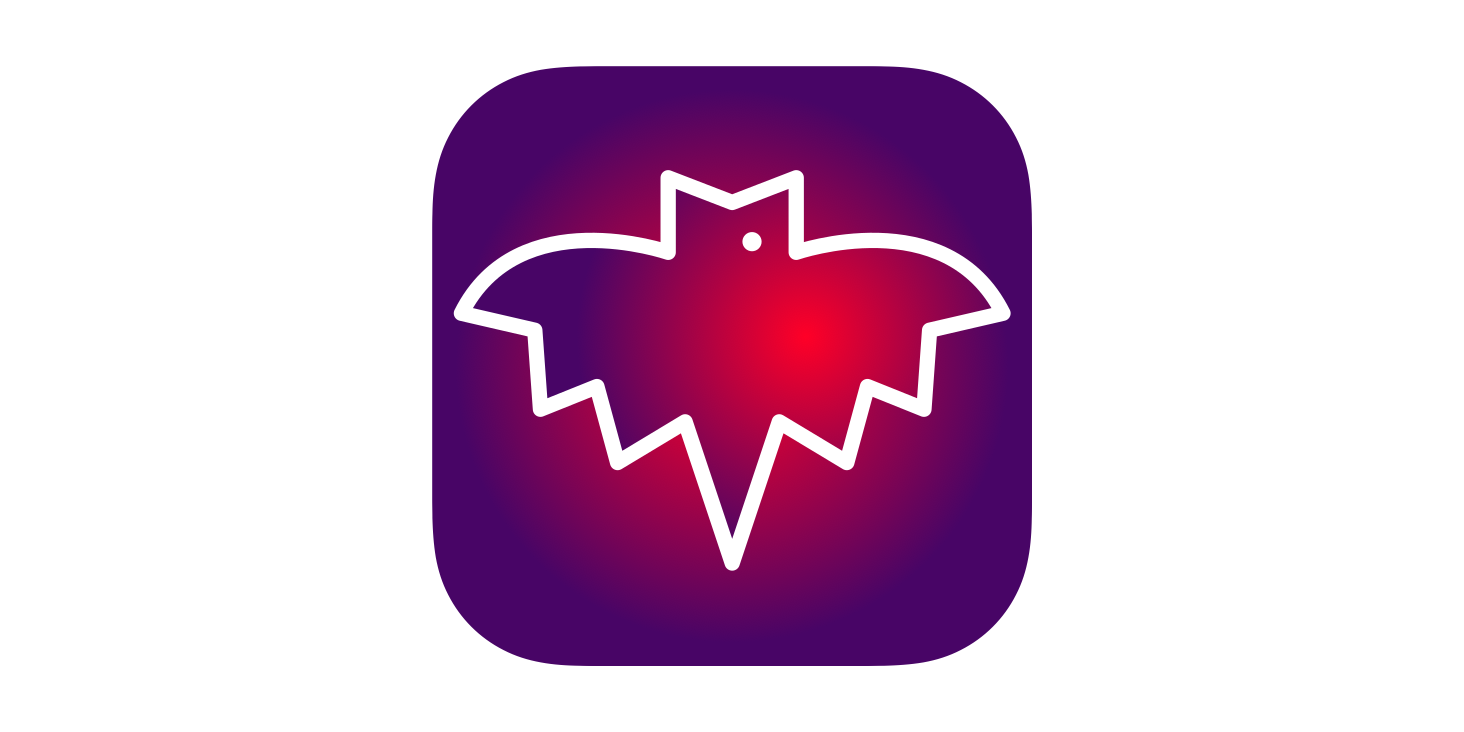
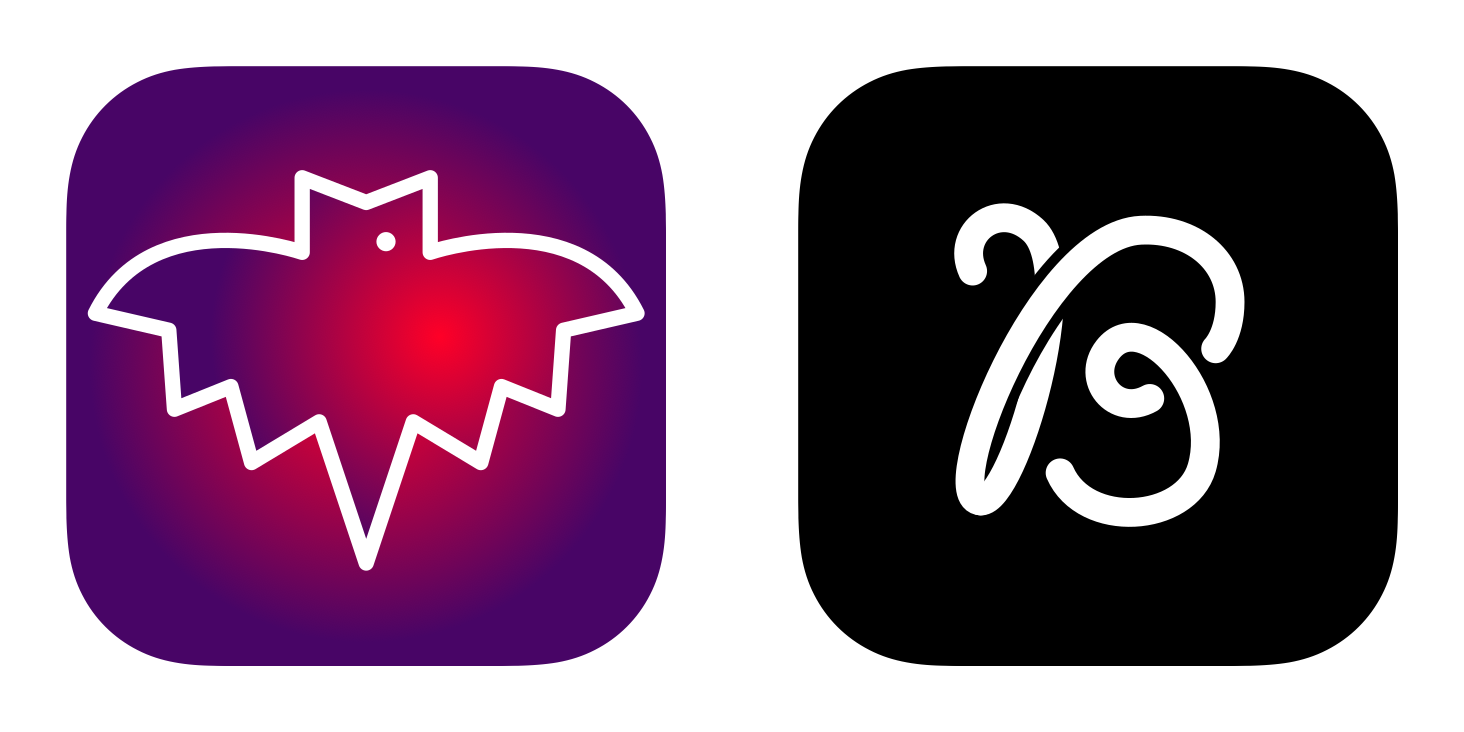
Update 2024-03-07 10:26:13

diff --git a/ja/batty/index.html b/ja/batty/index.html
@@ -99,7 +99,7 @@
 <p>一時間ほどで制作した。</p>
 <p>まず「コウモリ イラスト」でGoogle画像検索をしてみた所、羽の膜を曲線に描いている物が多かった。</p>
 <p>なので試しに直線にしてみたら意外と良い感じな気がしたので採用し、両目が開いているとつまらない気がしたので片目を閉じさせてみたら何だか良い感じになったので採用した。</p>
-<p>Battyは国外にも出す予定だが、最近の海外のSNSアプリは黒か紫色が多い印象がある（詳しく調べてはいない）ので、コウモリの連想から紫を基調にした。</p>
+<p>Battyは海外にも出す予定だが、最近の海外のSNSアプリは黒か紫色が多い印象がある（詳しく調べてはいない）ので、コウモリの連想から紫を基調にした。</p>
 <p>最後に「グラデーションを重ねると何か良い感じになる」というデザインの裏技を使う事に決めた。<br>
 背景にグラデーションを施し、コウモリにも同じ色のグラデーションをかける。<br>
 この時コウモリの方は開いている目の方向にずらすと、何故なのかは分からないが、意味ありげな雰囲気が出て良い感じになる。</p>
@@ -111,6 +111,20 @@
 </div>
 <div class="article-body">
 <p>左はクリオネっぽい。</p>
+<h1 id="アイコンの作り直し">アイコンの作り直し</h1>
+</div>
+<div class="figure">
+	<img src="/images/batty/new_icon.png">
+</div>
+<div class="article-body">
+<p>元々海外向けに考えたアイコンだったが、日本国内用のアイコンも考えようと思い、2023年5月16日に新しいアイコンに変更した。</p>
+<p>その後、特に狙った訳では無いが、BeReal.が人気を博したり、Meta社のThreadsが登場したり、TwitterがXに名称を変えたりと、黒背景に白の文字というデザインが一気に増えたので、こちらのデザインに統一する事にした。</p>
+</div>
+<div class="figure">
+	<img src="/images/batty/new_logo.png">
+</div>
+<div class="article-body">
+<p>同年の8月22日にロゴを作った。</p>
 
       </div>
       <footer>

diff --git a/ja/2020/index.html b/ja/2020/index.html
@@ -56,7 +56,8 @@
 <p>まだまだ先が見通せない日々が続くので気を引き締めていきたい。</p>
 <h1 id="アプリ調査">アプリ調査</h1>
 <p>国内のiOSアプリをひたすらインストールしていると去年書いたが、無事noteに記事を公開する事が出来た。</p>
-<a href="https://note.com/hyshu" target="_blank">https://note.com/hyshu</a>
+<p><a href="https://note.com/hyshu" target="_blank">https://note.com/hyshu</a><br>
+(追記：2022年にZennへ移行した折、情報が古くなっていたので削除した）</p>
 <p>とはいえ3000本のアプリをひたすら起動し続ける作業はあまりにも面倒で、結局4月までかかった。</p>
 <p>今年の分は管理用のアプリを作った為1万本以上インストール出来そうだが、アプリの制作とインストール作業を始めたのが9月頃な事もあり、去年と同じくらいかかりそうな予感がする。</p>
 <p>アプリをインストールする事自体はアプリ業界のみならず、IT業界全体の流行も見通せる部分もあり、非常に有益だと感じている。</p>
